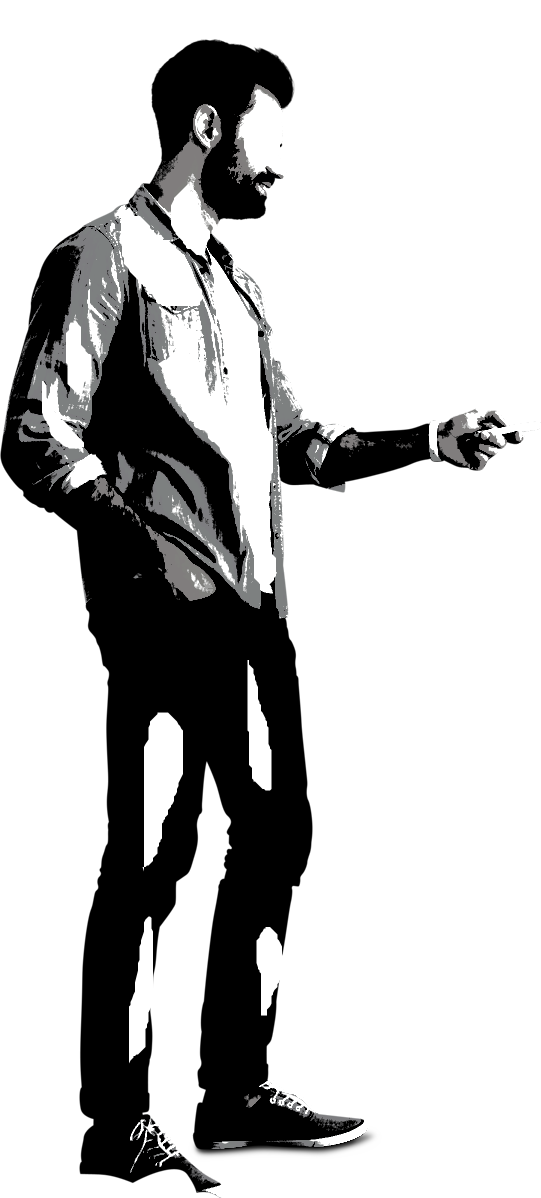
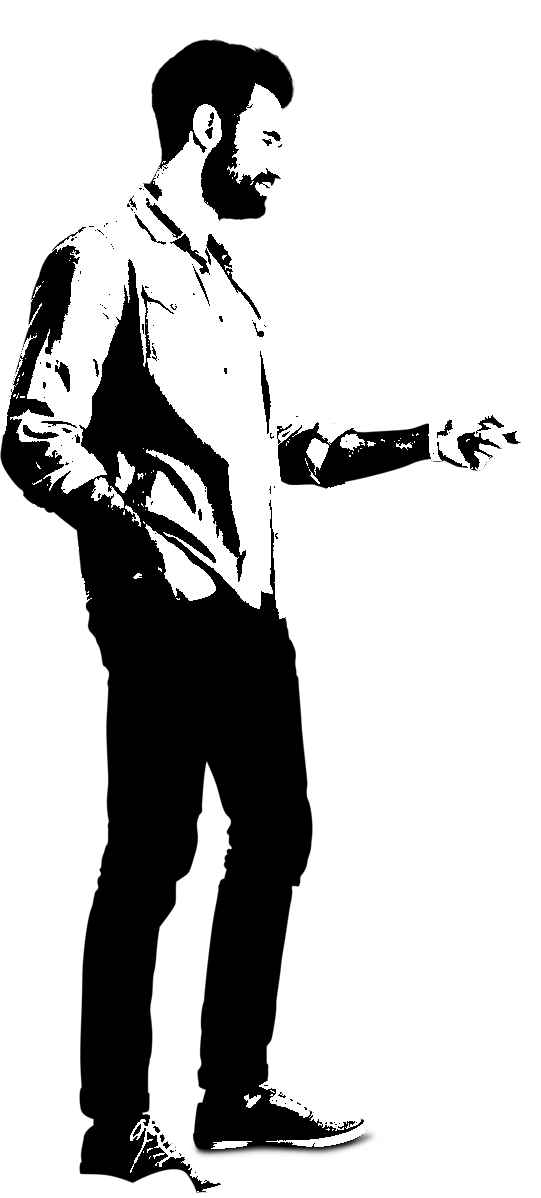
Exploring canvas processing

diff --git a/src/app/viewbox/viewbox.component.ts b/src/app/viewbox/viewbox.component.ts
@@ -4,35 +4,38 @@ import { Component, OnInit } from '@angular/core';
   selector: 'app-viewbox',
   templateUrl: './viewbox.component.html',
   styleUrls: ['./viewbox.component.scss']
-}) 
+})
 
 export class ViewboxComponent implements OnInit {
   //Image source  
-  imgsrc : string;
+  imgsrc: string;
 
   //The parameters that will be updated
-  rangex : number = -50;
-  rangey : number = 0.2;
+  rangex: number = -50;
+  rangey: number = 0.2;
 
   //Translation values for viewbox
-  movex : number = 0;
-  movey : number = 0;
+  movex: number = 0;
+  movey: number = 0;
 
   //Properties to change
-  translatey : number = 0;
-  skewx : number = 0;
-  translatex : number = 0;
-  scaley : number = 0;
-  xval : number = 0;
+  translatey: number = 0;
+  skewx: number = 0;
+  translatex: number = 0;
+  scaley: number = 0;
+  xval: number = 0;
 
   //CONSTRUCTOR AND LIFE HOOKS
-
   constructor() { }
 
   //Executed before showing anything
-  ngOnInit() { 
+  ngOnInit() {
     document.getElementById("shadow").style.filter = "brightness(1%) blur(5px) opacity(35%)";
-    document.getElementById("gradient-overlay").style.filter = "brightness(100%) blur(0px) opacity(20%)";
+
+    //Loads an image to the canvas
+    //this.canvasRendering();
+    document.getElementById("gradient-overlay").style.filter = "brightness(100%) blur(50px) opacity(30%)";
+    //var context = canvas.getContext('2D');
   }
 
   //Every time something changes this gets executed. First I need to change the values using the input.
@@ -49,27 +52,27 @@ export class ViewboxComponent implements OnInit {
     this.skewx = this.rangex;
     this.scaley = this.rangey;
 
-    this.xval = (250*(Math.tan(this.skewx*0.0174533)))/2;
-    this.translatex = this.xval - (this.xval*(1-this.scaley));
+    this.xval = (250 * (Math.tan(this.skewx * 0.0174533))) / 2;
+    this.translatex = this.xval - (this.xval * (1 - this.scaley));
 
-    this.translatey = (250*(1-this.scaley))/2;
+    this.translatey = (250 * (1 - this.scaley)) / 2;
 
     //Applies the new values for the shadow
-    document.getElementById("shadow").style.transform = 
+    document.getElementById("shadow").style.transform =
       `translateY(${this.translatey}px) skewX(${this.skewx}deg) translateX(${-this.translatex}px) scaleY(${this.scaley})`;
 
     //Modify gradient overlay properties
-    document.getElementById("gradient-overlay").style.background = 
-      `linear-gradient(90deg, rgba(255,255,255,0) 0%, rgb(${this.colorByHeight(this.scaley)}) ${ this.calculateLighting(this.skewx) + 0 }%, rgba(255,255,255,0) 100%)`;
+    document.getElementById("gradient-overlay").style.background =
+      `linear-gradient(90deg, rgba(255,255,255,0) 0%, rgb(${this.colorByHeight(this.scaley)}) ${this.calculateLighting(this.skewx) + 0}%, rgba(255,255,255,0) 100%)`;
 
     //Modify gradient overlay 2 properties
     document.getElementById("gradient-overlay-2").style.background =
-      `linear-gradient(90deg, rgba(255,255,255,0) 0%, rgb(${this.colorByHeight(this.scaley)}) ${ this.calculateLighting(this.skewx) + 4 }%, rgba(255,255,255,0) 100%)`;
+      `linear-gradient(90deg, rgba(255,255,255,0) 0%, rgb(${this.colorByHeight(this.scaley)}) ${this.calculateLighting(this.skewx) + 4}%, rgba(255,255,255,0) 100%)`;
   }
 
   //Retrives an loads the URL defined by the user
   changeImage() {
-    if(this.imgsrc != null) {
+    if (this.imgsrc != null) {
       document.getElementById("shadow").setAttribute("src", `${this.imgsrc}`);
       document.getElementById("image-top").setAttribute("src", `${this.imgsrc}`);
       document.getElementById("caracter-selection").setAttribute("src", `${this.imgsrc}`);
@@ -79,18 +82,48 @@ export class ViewboxComponent implements OnInit {
   }
 
   //Calculates tha percentage at wich the lighting should be
-  calculateLighting(angle : number) : number {
+  calculateLighting(angle: number): number {
     //The math function calculates the lighting overlay (0.5 + (angle/80)/2)*100 << TODO: Still needs calibration
-    return (0.5 + (angle/80)/2)*100;
+    return (0.5 + (angle / 80) / 2) * 100;
   }
 
   //Depending on height it returns correct color
-  colorByHeight(height : number) : string {
-    if(height > 0) {
+  colorByHeight(height: number): string {
+    if (height > 0) {
       return "255, 255, 255, 0.25";
     } else {
       return "0, 0, 0, 0.5";
     }
   }
 
+  //Canavas testing
+  canvasRendering() {
+    var canvas = <HTMLCanvasElement>document.getElementById('canvasProcessor');
+    var context = canvas.getContext('2d');
+
+    var img = new Image();
+
+    img.onload = function() {
+      canvas.width = img.width;
+      canvas.height = img.height;
+      context.drawImage(img, 0, 0, img.width, img.height);
+    } 
+    img.src = '../../assets/images/Student-alpha-2.png';
+
+    var imgData = context.getImageData(0, 0, canvas.width, canvas.height);
+    var data = imgData.data;
+
+    for(var i = 0; i < data.length; i+=4) {
+      if(data[i]!=0 && data[i+1]!=0 && data[i+2]!=0){
+        imgData.data[i+3]=0;
+      }
+    }
+
+    var canvasResult = <HTMLCanvasElement>document.getElementById(`canvasResult`);
+    var contextResult = canvasResult.getContext('2d');
+      canvasResult.width = canvas.width;
+      canvasResult.height = canvas.height;
+
+    contextResult.putImageData(imgData, 0, 0);
+  }
 }

diff --git a/src/app/viewbox/viewbox.component.html b/src/app/viewbox/viewbox.component.html
@@ -26,7 +26,8 @@
   Y: <input type="range" id="translate-y" class="sliders" min="-900" max="900" step="1" (input)="translatey=$event.target.value"><br>
 
   <input type="text" id="imgurl" class="text-input" placeholder="Image URL" (input)="imgsrc=$event.target.value">
-  <input type="button" class="imgbtn" value="Retrive" (click)="changeImage()"><br>
+  <input type="button" class="imgbtn" value="Retrive" (click)="changeImage()"><br><br>
+  <input type="button" class="imgbtn" value="Render" (click)="canvasRendering()"><br>
 
 </div>
 
@@ -43,6 +44,9 @@
 
     <figure id="gradient-overlay" class="gradient-overlay mask"></figure>
     <figure id="gradient-overlay-2" class="gradient-overlay mask"></figure>
+
+    <canvas id="canvasProcessor" width="500px" height="500px" style="border: 1px solid #000000; height: 250px; width: auto; float: right; visibility: visible;"></canvas>
+    <canvas id="canvasResult" width="500px" height="500px" style="border: 1px solid #000000; height: 250px; width: auto; float: right; visibility: visible;"></canvas>
 
   </div>
 
